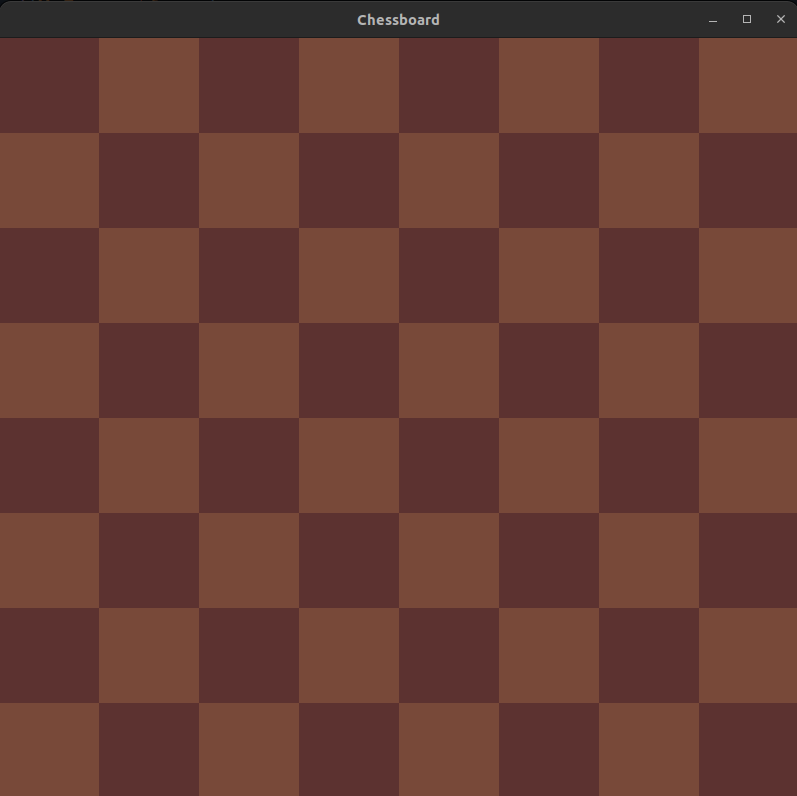
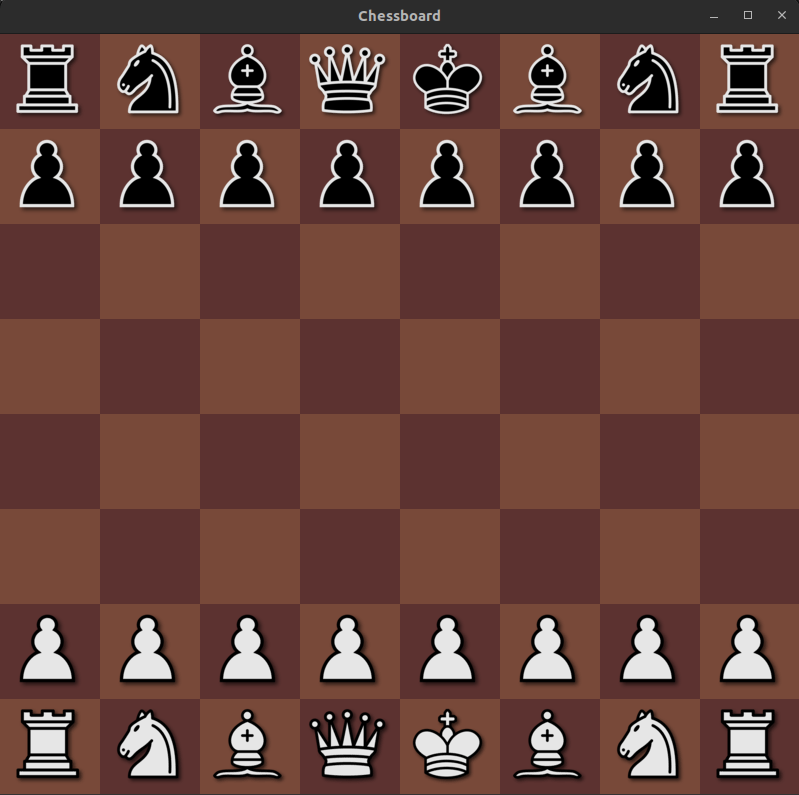
Add a function to delete a piece on mouse pressed

diff --git a/src/main.cpp b/src/main.cpp
@@ -1,13 +1,6 @@
-#define TEST 2
-
-#if TEST == 0
-
-#elif TEST == 1
-
-#elif TEST == 2
-
 #include <wx/wx.h>
-#include "../include/Chess.h"
+#include "Chess.h"
+
 class MyApp : public wxApp
 {
 public:
@@ -15,8 +8,34 @@ public:
     {
         MyFrame *frame = new MyFrame();
         Board *chessboard = new Board(frame);
-        Bishop *p = new Bishop(0, 0, WHITE, chessboard->square_array[0][0]);
-        Bishop *p2 = new Bishop(1, 0, BLACK, chessboard->square_array[1][0]);
+
+        Bishop *w_bishop_0 = new Bishop(2, 7, WHITE, chessboard->square_array[2][7]);
+        Bishop *w_bishop_1 = new Bishop(5, 7, WHITE, chessboard->square_array[5][7]);
+        Rook *w_rook_0 = new Rook(0, 7, WHITE, chessboard->square_array[0][7]);
+        Rook *w_rook_1 = new Rook(7, 7, WHITE, chessboard->square_array[7][7]);
+        Knight *w_knight_0 = new Knight(1, 7, WHITE, chessboard->square_array[1][7]);
+        Knight *w_knight_1 = new Knight(6, 7, WHITE, chessboard->square_array[6][7]);
+        Queen *w_queen_0 = new Queen(3, 7, WHITE, chessboard->square_array[3][7]);
+        King *w_king_0 = new King(4, 7, WHITE, chessboard->square_array[4][7]);
+        Pawn *w_pawn_arr[8];
+        for (int i = 0; i < 8; i++)
+        {
+            w_pawn_arr[i] = new Pawn(i, 6, WHITE, chessboard->square_array[i][6]);
+        }
+
+        Bishop *b_bishop_0 = new Bishop(2, 0, BLACK, chessboard->square_array[2][0]);
+        Bishop *b_bishop_1 = new Bishop(5, 0, BLACK, chessboard->square_array[5][0]);
+        Rook *b_rook_0 = new Rook(0, 0, BLACK, chessboard->square_array[0][0]);
+        Rook *b_rook_1 = new Rook(7, 0, BLACK, chessboard->square_array[7][0]);
+        Knight *b_knight_0 = new Knight(1, 0, BLACK, chessboard->square_array[1][0]);
+        Knight *b_knight_1 = new Knight(6, 0, BLACK, chessboard->square_array[6][0]);
+        Queen *b_queen_0 = new Queen(3, 0, BLACK, chessboard->square_array[3][0]);
+        King *b_king_0 = new King(4, 0, BLACK, chessboard->square_array[4][0]);
+        Pawn *b_pawn_arr[8];
+        for (int i = 0; i < 8; i++)
+        {
+            w_pawn_arr[i] = new Pawn(i, 6, BLACK, chessboard->square_array[i][1]);
+        }
 
         frame->Show(true);
         return true;
@@ -24,5 +43,3 @@ public:
 };
 
 wxIMPLEMENT_APP(MyApp);
-
-#endif

diff --git a/src/Board.cpp b/src/Board.cpp
@@ -28,19 +28,19 @@ Board::Board(MyFrame *frame)
 void Board::MovingChessPawn(int ox, int oy, int nx, int ny, const wxString &imagePath)
 {
 }
-void Board::PutPawn(wxWindow &square, const wxString &imagePath)
-{
-    /* Create a bitmap for the image */
-    wxBitmap bitmap;
-    /* Load the image file into the bitmap */
-    bitmap.LoadFile(imagePath, wxBITMAP_TYPE_PNG);
-    wxStaticBitmap *staticBitmap = new wxStaticBitmap(
-        &square, wxID_ANY, bitmap, wxDefaultPosition, wxDefaultSize);
-    //staticBitmap->Bind(wxEVT_LEFT_DOWN, &Board::OnPawnPressed, this);
-    wxBoxSizer *squareSizer = new wxBoxSizer(wxHORIZONTAL);
-    squareSizer->Add(staticBitmap, 1, wxALIGN_CENTER);
-    square.SetSizer(squareSizer);
-}
+// void Board::PutPawn(wxWindow &square, const wxString &imagePath)
+// {
+//     /* Create a bitmap for the image */
+//     wxBitmap bitmap;
+//     /* Load the image file into the bitmap */
+//     bitmap.LoadFile(imagePath, wxBITMAP_TYPE_PNG);
+//     wxStaticBitmap *staticBitmap = new wxStaticBitmap(
+//         &square, wxID_ANY, bitmap, wxDefaultPosition, wxDefaultSize);
+//     //staticBitmap->Bind(wxEVT_LEFT_DOWN, &Board::OnPawnPressed, this);
+//     wxBoxSizer *squareSizer = new wxBoxSizer(wxHORIZONTAL);
+//     squareSizer->Add(staticBitmap, 1, wxALIGN_CENTER);
+//     square.SetSizer(squareSizer);
+// }
 
 //--------------------------------------------------------------//
 //                        Delete Pawn                           //
@@ -86,6 +86,24 @@ void Board::Draw(wxGridSizer *chessboardSizer, wxWindow *square_array[8][8])
         }
     }
 }
+
+
+//--------------------------------------------------------------//
+//                       Init The Paws                          //
+//--------------------------------------------------------------//
+
+void Board::InitPaws()
+{
+    
+}
+
+
+
+
+
+
+
+
 
 //--------------------------------------------------------------
 //--------------------------------------------------------------

diff --git a/src/Piece.cpp b/src/Piece.cpp
@@ -9,6 +9,7 @@ Piece::~Piece()
 Piece::Piece(int x, int y, Color color, wxWindow *square) : m_x(x), m_y(y), m_color(color), m_square(square)
 {
 }
+
 void Piece::Put(int x, int y)
 {
     /* Create a bitmap for the image */
@@ -16,7 +17,27 @@ void Piece::Put(int x, int y)
     /* Load the image file into the bitmap */
     bitmap.LoadFile(this->m_img, wxBITMAP_TYPE_PNG);
     this->m_staticBitmap = new wxStaticBitmap(this->m_square, wxID_ANY, bitmap, wxDefaultPosition, wxDefaultSize);
+    this->m_staticBitmap->Bind(wxEVT_LEFT_DOWN, &Piece::OnPiecePressed, this);
     wxBoxSizer *squareSizer = new wxBoxSizer(wxHORIZONTAL);
     squareSizer->Add(this->m_staticBitmap, 1, wxALIGN_CENTER);
     this->m_square->SetSizer(squareSizer);
+}
+
+void Piece::Delete(wxWindow &square)
+{
+    // Get the sizer associated with the square
+    wxSizer *squareSizer = square.GetSizer();
+
+    if (squareSizer)
+    {
+        /* Remove all items from the sizer */
+        squareSizer->Clear(true); // true indicates that the items should be deleted
+        /* Layout the square to reflect the changes */
+        square.Layout();
+    }
+}
+
+void Piece::OnPiecePressed(wxMouseEvent &event)
+{
+    this->Delete(*(this->m_square));
 }

diff --git a/include/Board.h b/include/Board.h
@@ -7,16 +7,15 @@ class Board
 private:
     wxGridSizer *chessboardSizer;
     wxPanel *panel;
-
+    void Draw(wxGridSizer *chessboardSizer, wxWindow *square_array[8][8]);
+    void InitPaws();
 public:
     Board();
     Board(MyFrame *frame);
     ~Board();
     wxWindow *square_array[8][8];
     void MovingChessPawn(int ox, int oy, int nx, int ny, const wxString &imagePath);
-    void PutPawn(wxWindow &square, const wxString &imagePath);
     void RemovePawn(wxWindow &square);
-    void Draw(wxGridSizer *chessboardSizer, wxWindow *square_array[8][8]);
     void OnPawnPressed(wxMouseEvent &event);
 };
 

diff --git a/src/Bishop.cpp b/src/Bishop.cpp
@@ -7,11 +7,11 @@ Bishop::Bishop()
 Bishop::~Bishop()
 {
 }
-
 Bishop::Bishop(int x, int y, Color color, wxWindow *square) : Piece(x, y, color, square)
 {
-    if(m_color == WHITE)
+    if (m_color == WHITE)
         m_img = CHESS_WHITE_BISHOP;
-    else m_img = CHESS_BLACK_BISHOP;
-    this->Put(this->m_x,this->m_y);
+    else
+        m_img = CHESS_BLACK_BISHOP;
+    this->Put(this->m_x, this->m_y);
 }

diff --git a/src/King.cpp b/src/King.cpp
@@ -1,0 +1,19 @@
+#include "King.h"
+
+King::King()
+{
+
+}
+
+King::~King()
+{
+
+}
+King::King(int x, int y, Color color, wxWindow *square) : Piece(x, y, color, square)
+{
+    if (m_color == WHITE)
+        m_img = CHESS_WHITE_KING;
+    else
+        m_img = CHESS_BLACK_KING;
+    this->Put(this->m_x, this->m_y);
+}

diff --git a/include/Piece.h b/include/Piece.h
@@ -35,7 +35,9 @@ public:
     Piece(int x, int y, Color color, wxWindow *square);
     void Put(int x, int y);
     void Move(int o_x, int o_y, int n_x, int n_y);
-    void Delete();
+    void Delete(wxWindow &square);
+    void OnPiecePressed(wxMouseEvent &event);
+
 
 private:
 protected:

diff --git a/src/Knight.cpp b/src/Knight.cpp
@@ -9,3 +9,12 @@ Knight::~Knight()
 {
 
 }
+
+Knight::Knight(int x, int y, Color color, wxWindow *square) : Piece(x, y, color, square)
+{
+    if (m_color == WHITE)
+        m_img = CHESS_WHITE_KNIGHT;
+    else
+        m_img = CHESS_BLACK_KNIGHT;
+    this->Put(this->m_x, this->m_y);
+}

diff --git a/src/Queen.cpp b/src/Queen.cpp
@@ -9,3 +9,11 @@ Queen::~Queen()
 {
 
 }
+Queen::Queen(int x, int y, Color color, wxWindow *square) : Piece(x, y, color, square)
+{
+    if (m_color == WHITE)
+        m_img = CHESS_WHITE_QUEEN;
+    else
+        m_img = CHESS_BLACK_QUEEN;
+    this->Put(this->m_x, this->m_y);
+}

diff --git a/src/Rook.cpp b/src/Rook.cpp
@@ -9,3 +9,12 @@ Rook::~Rook()
 {
 
 }
+
+Rook::Rook(int x, int y, Color color, wxWindow *square) : Piece(x, y, color, square)
+{
+    if (m_color == WHITE)
+        m_img = CHESS_WHITE_ROOK;
+    else
+        m_img = CHESS_BLACK_ROOK;
+    this->Put(this->m_x, this->m_y);
+}

diff --git a/src/Pawn.cpp b/src/Pawn.cpp
@@ -9,3 +9,11 @@ Pawn::~Pawn()
 {
 
 }
+Pawn::Pawn(int x, int y, Color color, wxWindow *square) : Piece(x, y, color, square)
+{
+    if (m_color == WHITE)
+        m_img = CHESS_WHITE_PAWN;
+    else
+        m_img = CHESS_BLACK_PAWN;
+    this->Put(this->m_x, this->m_y);
+}

diff --git a/include/King.h b/include/King.h
@@ -1,0 +1,16 @@
+#ifndef KING_H
+#define KING_H
+
+#pragma once
+#include "Piece.h"
+class King : public Piece
+{
+public:
+    King();
+    King(int x, int y, Color color, wxWindow *square);
+    ~King();
+
+private:
+};
+
+#endif
